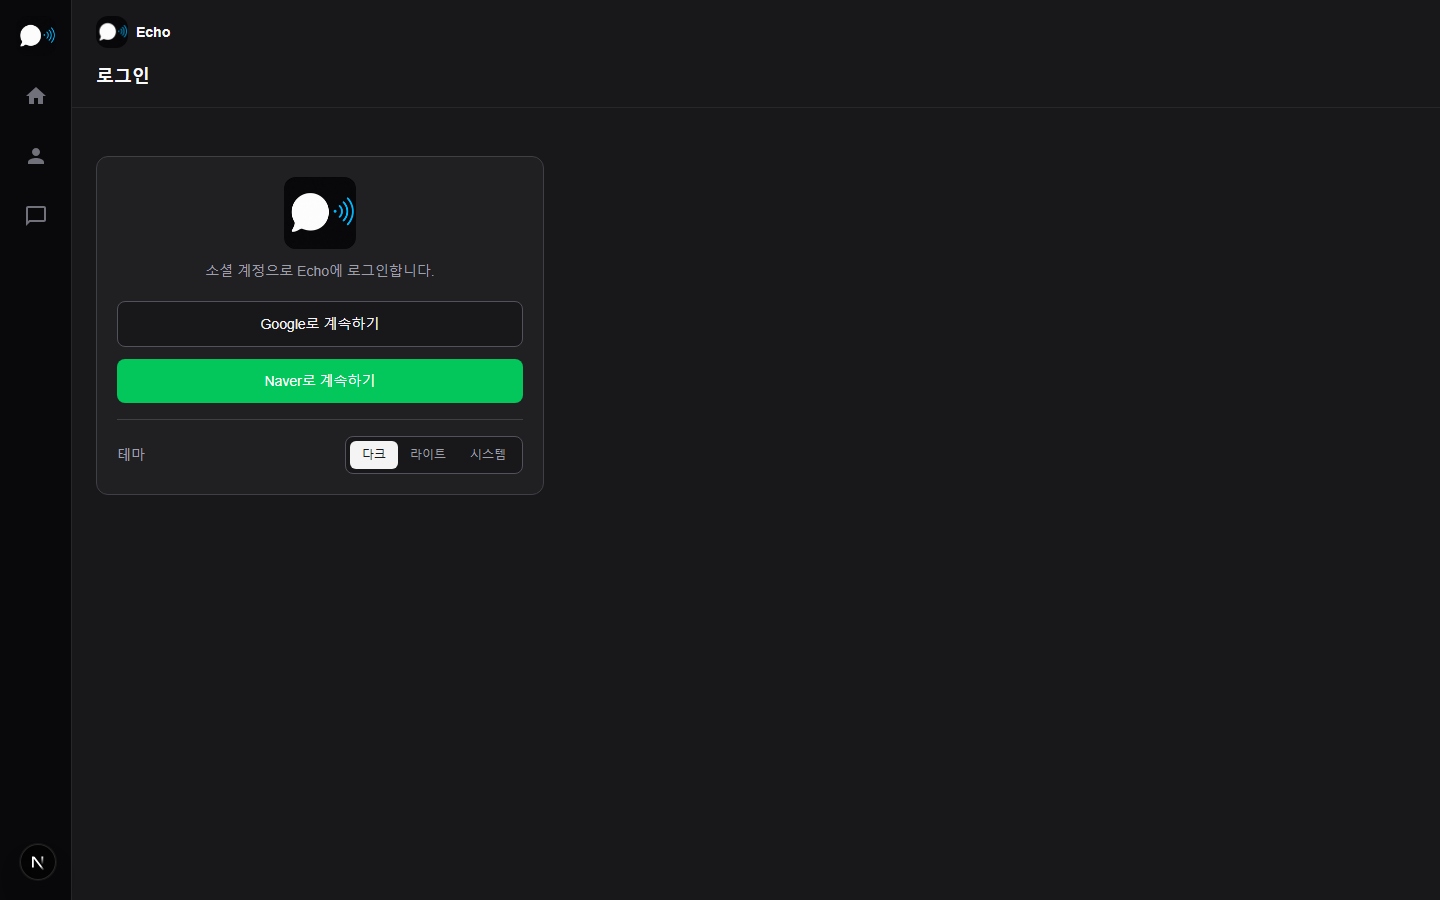
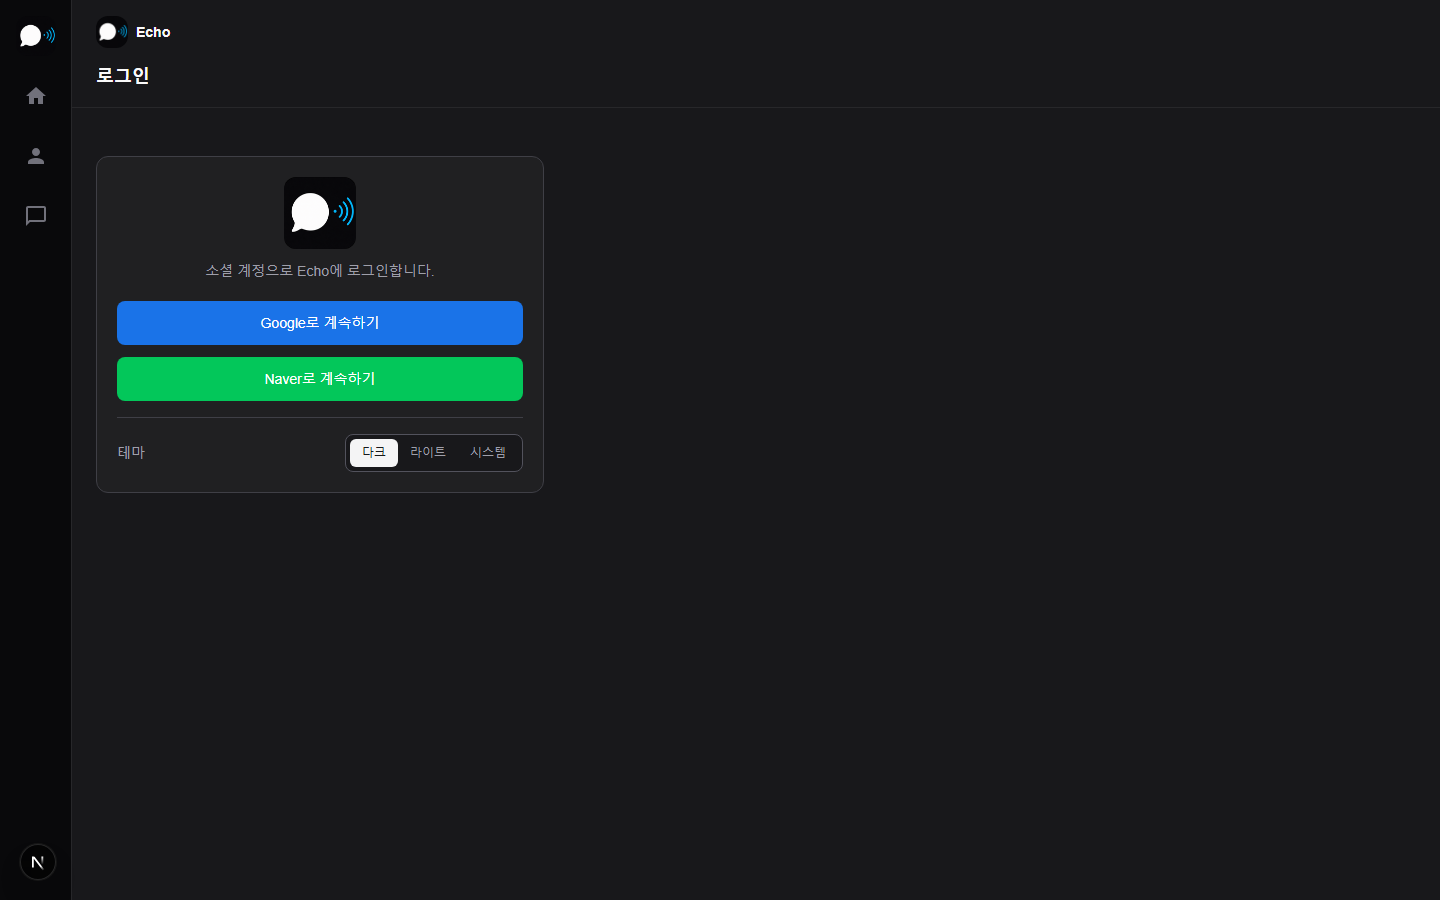
feat(login): Google 버튼 브랜드 색상 적용 및 로그인 스크린샷 갱신
Google 로그인 버튼에 브랜드 컬러를 적용하고, 단일 스크린샷 캡처 옵션과 login.png를 갱신한다.

Changed region(s): [[0.0625, 0.3111, 0.375, 0.5289]]

diff --git a/echo-web/components/LoginPanel.tsx b/echo-web/components/LoginPanel.tsx
@@ -43,7 +43,7 @@ export default function LoginPanel({ errorCode = null }: Readonly<LoginPanelProp
       <div className="space-y-3">
         <a
           href={getOAuthLoginUrl("google")}
-          className="flex w-full items-center justify-center gap-2 rounded-lg border border-zinc-300 bg-white px-4 py-3 text-sm font-medium text-zinc-800 transition hover:bg-zinc-50 dark:border-zinc-600 dark:bg-zinc-900 dark:text-zinc-100 dark:hover:bg-zinc-800"
+          className="flex w-full items-center justify-center gap-2 rounded-lg bg-[#1A73E8] px-4 py-3 text-sm font-medium text-white transition hover:bg-[#1765CC]"
         >
           Google로 계속하기
         </a>